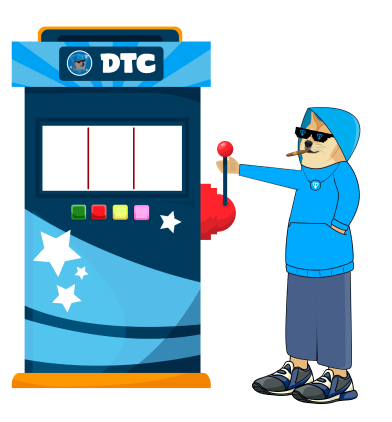
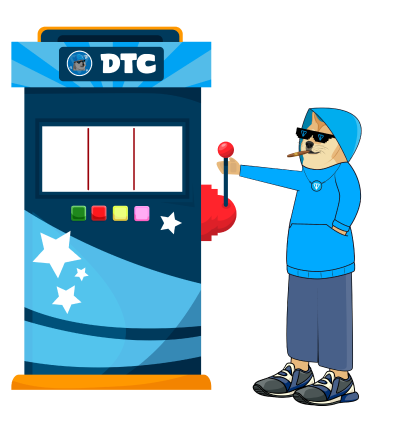
update
update

diff --git a/src/index.css b/src/index.css
@@ -36,20 +36,16 @@ body {
   100% {
     background-image: url("/images/DTC-0.png");
   }
-  20% {
+  25% {
     scale: 105%;
     background-image: url("/images/DTC-1.png");
   }
-  40% {
+  50% {
     scale: 100%;
     background-image: url("/images/DTC-2.png");
   }
-  60% {
+  75% {
     scale: 105%;
-    background-image: url("/images/DTC-1.png");
-  }
-  80% {
-    scale: 100%;
-    background-image: url("/images/DTC-2.png");
+    background-image: url("/images/DTC-3.png");
   }
 }
